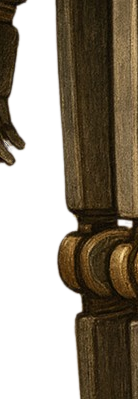
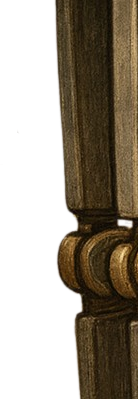
feat(assets): re-cut with Rickard's parts-clean leg overrides (task 22d)
First real use of the 22b override layer: five hand-cleaned leg parts
(7a19 leg-upper+lower, 3c57 leg-upper+lower, 9b72 leg-upper) picked up
verbatim — cut-log lists them per persona, and far-leg duplicates are
pixel-verified identical to Rickard's files (cleaning propagates).

IoU: Bolt 0.950->0.905, Checkwell 0.726->0.710, Sparkhand 0.884 flat.
The dips are the honest cost of despilling: the machine foot crop had the
far foot's dome baked in as spill filling the master's far-foot silhouette;
the real far duplicate now carries it behind the near leg. Renders eyeballed
cleaner (single boot per foot). Re-bundled to app assets; 126 tests green.

Changed region(s): [[0.0, 0.0, 0.2029, 0.4211]]

diff --git a/docs/AKTUELLT.md b/docs/AKTUELLT.md
@@ -68,6 +68,7 @@
 
 ## Log
 
+- **2026-07-19 (task 22d, re-cut with Rickard's parts-clean overrides active — first real use of the 22b layer)** — Five hand-cleaned leg parts landed (7a19 leg-upper+leg-lower, 3c57 leg-upper+leg-lower, 9b72 leg-upper); all five passed the dimension guard (exact region-size RGBA), picked up VERBATIM (cut-log per persona lists them; provenance on each bindpose-diff footer) and PROPAGATED: far-leg duplicates pixel-verified identical to Rickard's files. IoU: Bolt 0.950→0.905, Checkwell 0.726→0.710, Sparkhand 0.884 flat — the dips are the HONEST cost of despilling: the machine foot crop had the far foot's dome baked in as spill, which happened to fill the master's far-foot silhouette; now the real far duplicate carries it (behind the near leg, depth-offset) so the reassembly no longer fakes coverage — renders eyeballed cleaner than before (single boot per foot, no ghost dome). EDGE CROPS (3×, same framing as 22c): Bolt's leg parts now fully clean; Checkwell's clean bar a thin strip at the leg-lower right edge; Sparkhand's leg-upper KEEPS the brown glove — likely deliberate (the arm hangs in FRONT of the thigh in the master, so erasing it would punch an occlusion hole needing inpaint) but it's baked into the leg, so it will swing WITH the leg in walk — Rickard judges from the crops whether it needs an inpaint pass. Re-bundled all three to app assets; 126 app tests green; no golden diffs. No manifests/app code/master-clean/clipboard touched.
 - **2026-07-19 (task 22, workers on by default + reconnect resilience — instrumentation + hardening)** — (A) WORKERS ON: `debugWorkerSprites` const → true; the WORKERS toggle stays as an off-switch. HONEST LIMIT: a live Flame GameWidget can't be golden-captured (continuous ticker → pumpAndSettle hangs; async sprite decode never finishes in the captured frame — demonstrated 3×), so the promotion is the const flip, DEVICE-verified; every HomeScreen test disables the worker layer (WorkersOffController override) to stay deterministic. Only `home_layout_tuning` golden changed (the new CONNECTION readout); all others byte-identical. (B) RECONNECT — the explorer found most pieces already existed (client 20s ping, backoff, replay-from-eventId, unreachable; daemon 30s heartbeat + terminate, mDNS advertise). GAPS CLOSED: INSTRUMENTATION (the "stop guessing" priority) — the daemon now logs WHY a socket ended (close code/reason, which layer: peer-close / error / heartbeat-sweep, + uptime; injectable `log` seam); the app captures the close reason + connection stats (uptime, drops this session, last drop reason, last-pong age, foreground) via `ConnStats`, surfaced in a new CONNECTION section of the debug panel. HARDENING (safe regardless of root cause): (a) CLIENT-SIDE silent-drop detection — the client pinged but never checked pongs; now 2 missed pongs (≈40s: NAT/power-save death with no close frame) force a reconnect in seconds; (b) backoff retuned to 1s→30s cap with ±30% JITTER + an app-lifecycle observer so FOREGROUND (and `networkChanged`) kicks an immediate retry instead of waiting out the backoff; (c) replay-from-eventId confirmed already correct. TESTS: 126 app (+4: backoff schedule, jitter bounds, close-reason strings, fake-socket heartbeat silent-drop→reconnect via fake_async) + 102 daemon (+1: close code/reason logged with the layer). analyze clean; flag TRUE (workers shipping). **DEFERRED (flagged, not done): (d) mDNS REDISCOVERY on >60s failure (browse `_werkz._tcp`, match a workshop-id in the TXT, update the stored host:port — the permanent DHCP-IP-rotation fix) + (e) the unreachable banner "searching…" state.** These are the largest new subsystem: app mDNS BROWSING needs the `multicast_dns` dep AND the iOS **multicast networking entitlement** (Apple-gated — a real request, not just code) + a workshop-id in the daemon's mDNS TXT. Per the task's own "diagnose first" sequencing, instrumentation ships now so Rickard reads the drop reasons over one evening; rediscovery is the next increment (gated on that diagnosis + the entitlement). No pairing/QR/token/shipping-UI changes beyond the const flip + the CONNECTION readout; assets-pipeline untouched (Rickard's in-flight 22c work).
 - **2026-07-19 (task 22c, all three personas re-cut from Rickard's full-res master-clean files)** — DIMENSION GATE first: every master-clean is 1024×1536 RGBA, exactly matching its attempt1-1 source (Bolt's earlier 408×612 export mishap replaced) — none stopped. Cut with auto-pickup for all three (cut-log: master=master-clean, overrides none), re-bundled all 33 part PNGs to app assets, bind-pose re-rendered + diffed. IoU: Bolt 0.950→0.950 (flat — the res bump doesn't move silhouette agreement), Sparkhand 0.889→0.884 (flat), Checkwell 0.780→0.726 — NOT a regression: his hand-clean cut a much tighter body bbox (405px wide vs the old isolate's 577), so the BY-DESIGN clipboard silhouette (absent from the master, 19l) weighs proportionally more; eyeballed = clean aligned assembly, clipboard is the magenta delta. HALO: gone on all three (eyeballed at 3× on contrast bg — feet/leg region). REGION SPILL remains everywhere (the parts-clean layer's job, expected): Bolt's foot crop carries the far foot's dome + belt pouch in leg-upper; Checkwell's leg-upper has a hand sliver + second shoe edge; Sparkhand's leg-upper has the brown glove. Rickard judges from the edge crops which parts get parts-clean handwork. 126 app tests green; no golden diffs (current baseline bakes no worker pixels). No manifest/app-code/clipboard-generation changes.
 - **2026-07-19 (task 22b, parts-clean/ hand-clean override convention + Bolt re-cut from master-clean)** — Second layer of Rickard's hand-cleaning, now auto-picked by `cut-hires.py`: LAYER 1 `hires-candidates/<persona>/master-clean.png` (19i, background/halo — replaces the threshold isolate, defringe still applied) + NEW LAYER 2 `hires-candidates/<persona>/parts-clean/<part-name>.png` (region spill — cut boxes include neighboring pixels: the other leg's ankle in a foot crop, torso edge in arm crops — unfixable at master level). A parts-clean file replaces the machine cut VERBATIM (no defringe/processing on top) and resolution happens BEFORE far-side derivation, so the cleaned near limb propagates to the far duplicate + the far-arm prop-strip automatically; `parts-clean/clipboard.png` would also outrank the generated prop. NEVER-RESIZE RULE: override canvas must EXACTLY equal the machine region size (pivots/attach-offsets are part-local fractions — a resized canvas silently corrupts assembly) → dimension mismatch or missing alpha FAILS LOUDLY with both sizes in the message; the pipeline never rescales. VISIBILITY: every run prints overrides + writes `parts-hires/<persona>/cut-log.json` (master source + overridden parts); `bindpose-diff.py` stamps that provenance on the panel footer. BOLT RE-CUT: his master-clean.png landed → auto-picked, re-cut, re-bundled to app assets, bind-pose IoU 0.942→0.950 (viewed: clean aligned assembly). FLAG: master-clean is 408×612 (cut 253×554) vs the old machine cut's 651×1402 — ~2.5× lower res; at worker render size (~80 logical px) still ~2× oversampled so it reads fine, but if a big-robot close-up lands later, re-export master-clean at full res and re-run. Checkwell/Sparkhand outputs byte-identical (no hand-cleans yet, same auto-pickup awaits their files). TESTS: sandboxed `test-cut-overrides.py` (7 checks: verbatim pickup, far leg/arm derive from override incl. through strip_prop, mismatch + no-alpha fail loudly, cut-log records); 122 app tests green, analyze untouched. Docs: new `assets-pipeline/README.md` (two-layer convention + never-resize rule). No manifest regions/pivots, app code, or output-path changes.
